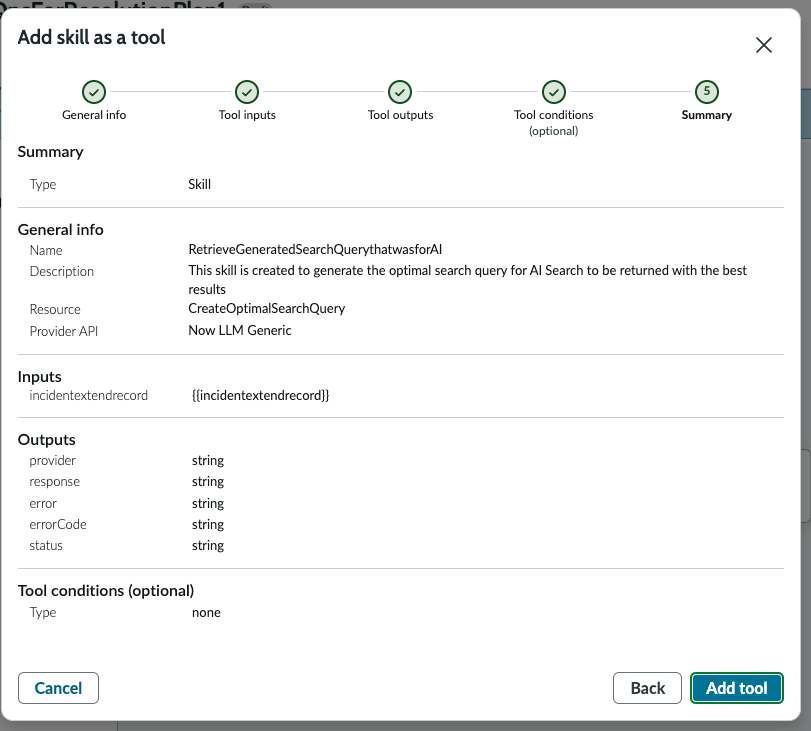
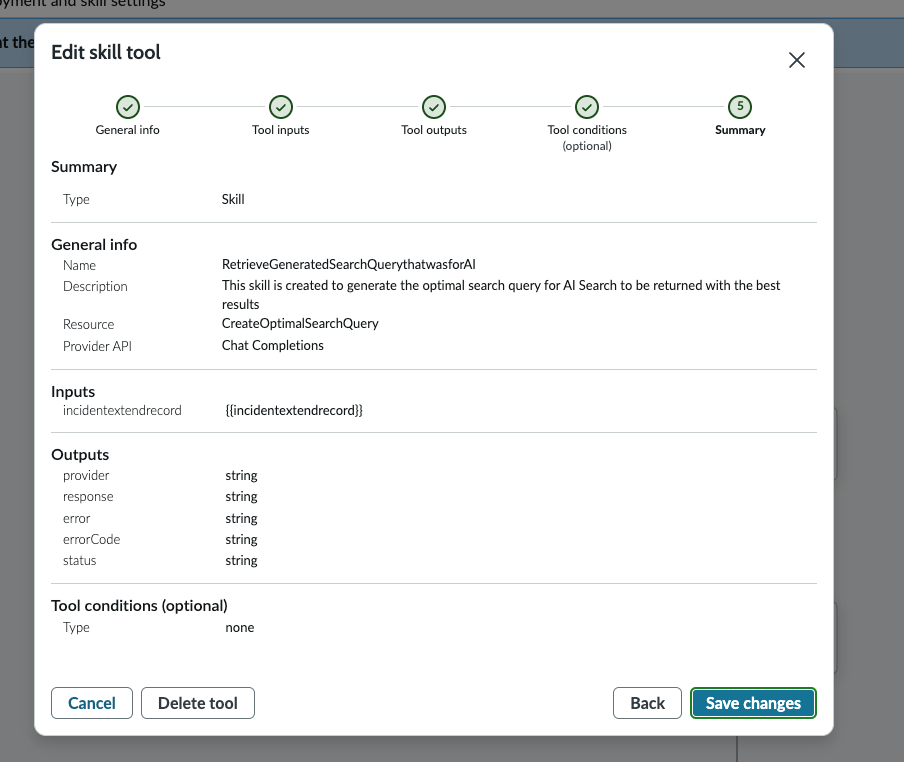
fixed-step-10-04c

diff --git a/docs/04c-now-assist-skill-kit-web-search.md b/docs/04c-now-assist-skill-kit-web-search.md
@@ -312,7 +312,7 @@ Click **Continue**.
 
 ### Step 9: Review Tool Summary
 
-![Add skill as a tool — Summary](<../.gitbook/assets/NASK-generatewebsearchquestion-step10 (1).png>)
+![Add skill as a tool — Summary](<../screenshots/NASK-generatewebsearchquestion-step10.png>)
 
 **Step 5 — Summary:**
 
@@ -322,7 +322,7 @@ Click **Continue**.
 | General info    | Name                 | `RetrieveGeneratedSearchQuerythatwasforAI`                                                                      |
 | General info    | Description          | `This skill is created to generate the optimal search query for AI Search to be returned with the best results` |
 | General info    | Resource             | `CreateOptimalSearchQuery`                                                                                      |
-| General info    | Provider API         | Now LLM Generic                                                                                                 |
+| General info    | Provider API         | Chat Completions                                                                                                |
 | Inputs          | incidentextendrecord | `{{incidentextendrecord}}`                                                                                      |
 | Outputs         | provider             | string                                                                                                          |
 | Outputs         | response             | string                                                                                                          |
